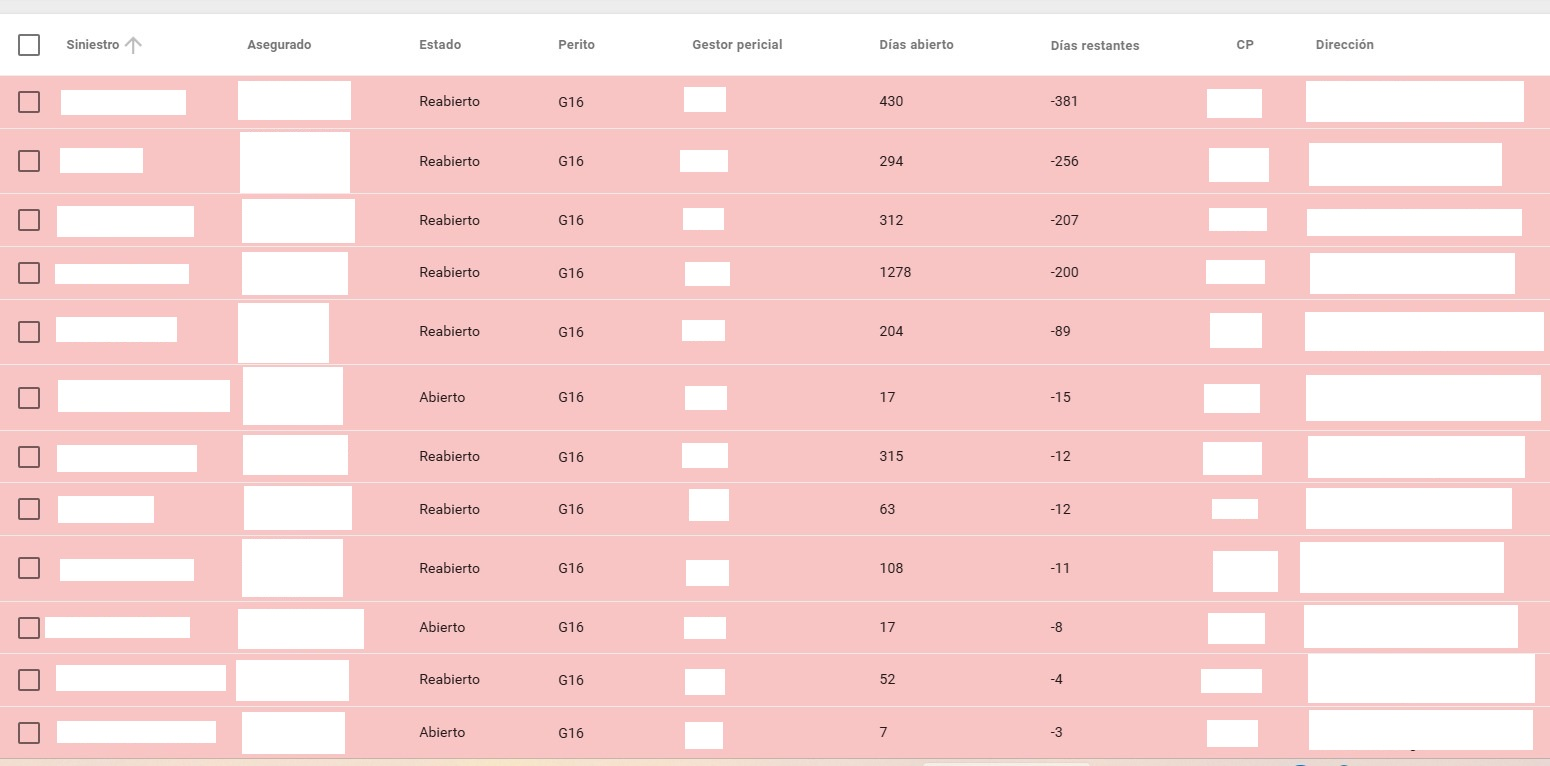
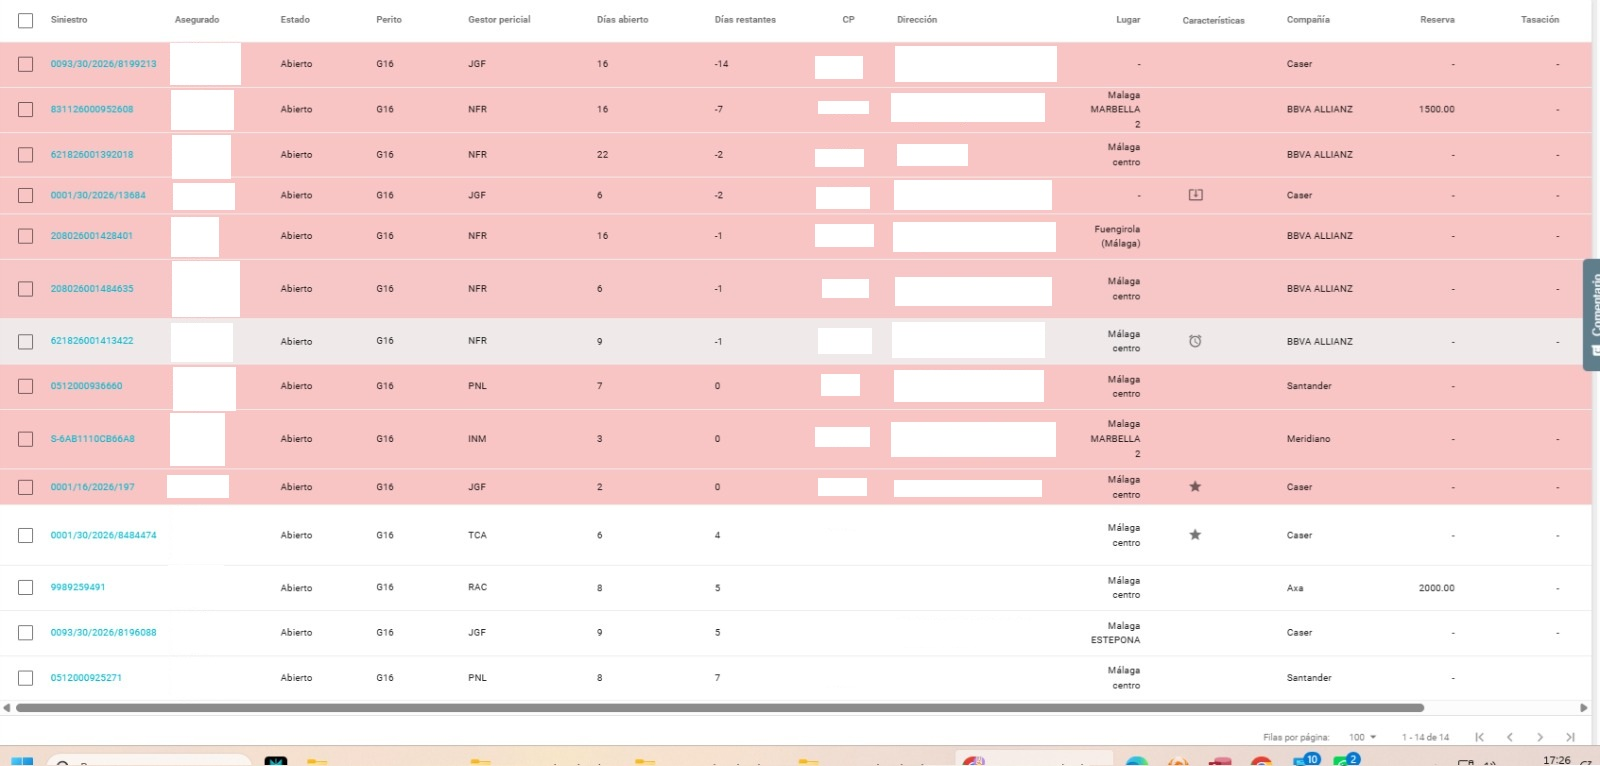
Cambios en especificación y tabla de peritaciones

diff --git a/README.md b/README.md
@@ -10,6 +10,8 @@ Hay una serie de condiciones que se deben cumplir:
 4. Los siniestros nuevos con más de 30 días sin haber sido vistos penalizan al perito.
 5. Para todos los siniestros, si el asegurado no ha sido contactado en un plazo de 4 días, el perito es penalizado.
 
+La penalización que se comenta, supone una disminución del 5% de la minuta que cobra el perito. Esta penalización es acumulable; es decir, si se duplica el tiempo (4 días para Mapfre y Axa, y 8 días para el resto de aseguradoras), se marca como bloqueado y se debe comunicar al supervisor que se ha contactado con el asegurado para que desbloquee el expediente; y si vuelve a pasar el plazo (total de 6 días para Mapfre y Axa, y 12 días para el resto de aseguradoras), se devuelve el expediente y se asigna a otro perito, perdiendo además la minuta asociada.
+
 Suelen entrar alrededor de 15 o 20 expedientes nuevos por semana, por lo que el trabajo acumulado acaba volviendo muy caótico el mantener un orden y metodología.
 
 ## Conocimiento acerca del problema
